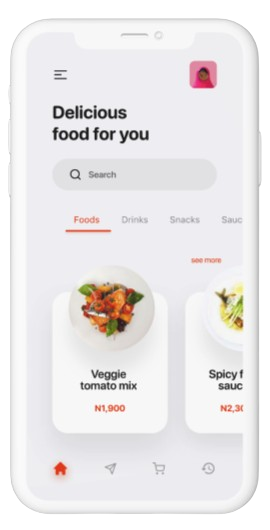
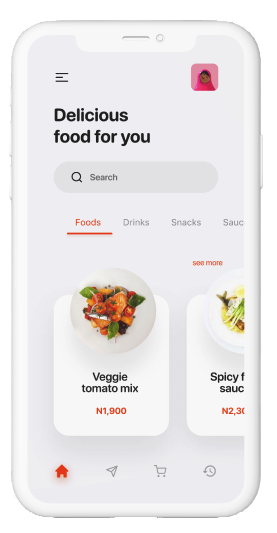
atualizei as imagens

diff --git a/css/style.css b/css/style.css
@@ -197,7 +197,8 @@ body {
   font-weight: 500;
 }
 .area-full .left-area img {
-  width: 300px;
+  width: 200px;
+  filter: drop-shadow(5px 5px 5px #ccc);
 }
 .area-content-app #area-invert {
   display: flex;
